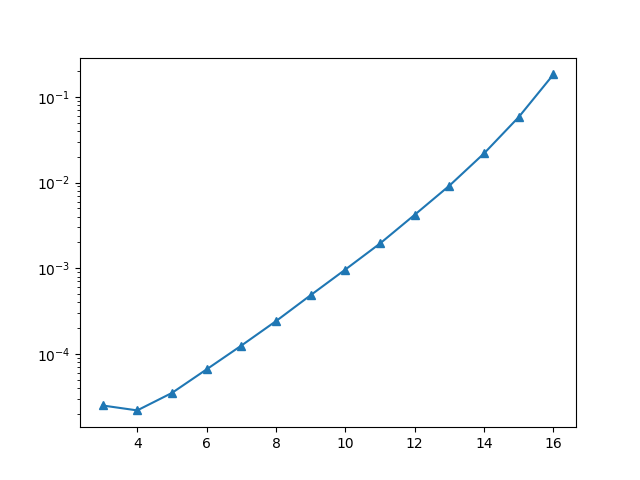
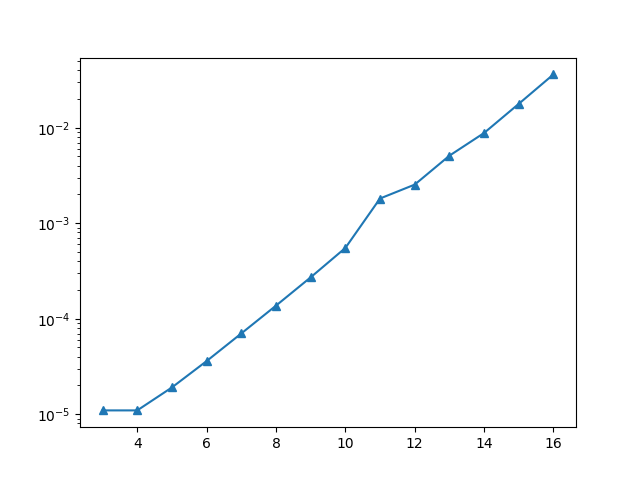
update : change io data structure

diff --git a/multiply_py/karatsuba.py b/multiply_py/karatsuba.py
@@ -1,46 +1,27 @@
 import random
-from utils import int_ls, to_ls
+from mul1 import add, add_3, mul_2, mul1, mul_nn
+from add import add_nn
 
 
-def mul_2(l, m):
-    ans = (l * m)
-    return ans // 10, ans % 10
-
-
-def add(l, m):
-    ans = (l + m)
-    return ans // 10, ans % 10
-
-
-def add_3(l, m, n):
-    ans = (l + m + n)
-    return ans // 10, ans % 10
-
-
-def mul1(a_ls, b):
-    # print(a * b)
-    ans = [0] * (len(a_ls) + 1)
-    carry = 0
-    prev_c = 0
-    for i in range(len(a_ls)):
-        c, d = mul_2(a_ls[i], b)
-        carry, tmp = add_3(d, prev_c, carry)
-        ans[i] = tmp
-        prev_c = c
-    ans[-1] = prev_c + carry
-    ans = ans[::-1]
-    # print(ans)
-    # print(int("".join(list(map(str, ans)))))
-    return ans
-
-
-def mul_nn(a, b):
+def karatsuba_nn(a, b, n0):
+    inta = a
+    a = list(map(int, list(str(a))))[::-1]
+    b = list(map(int, list(str(b))))[::-1]
     if len(b) > len(a):
         a, b = b, a
+    if len(b) <= n0:
+        return int_ls(mul_nn(a, b))
+    k = len(a) // 2
     ans = [0] * (len(a) + len(b) + 1)
+    a0 = a[:k]
+    a1 = a[k:]
+    b0 = b[:k]
+    b1 = b[k:]
+
+
 
     for i in range(len(b)):
-        p = mul1(a, b[i])
+        p = mul1(inta, b[i])
         p = p[::-1]  # p : len(a) + 1
         carry = 0
         for j in range(i, i + len(a) + 1):
@@ -63,9 +44,6 @@ if __name__ == '__main__':
         keta = 8 * (2**i)
         a = random.randrange(10 ** keta, 10 ** (keta + 1))
         b = random.randrange(10 ** keta, 10 ** (keta + 1))
-        a = to_ls(a)
-        b = to_ls(b)
         # print(a * b)
         # print(mul_nn(a, b))
-        print((int_ls(a) * int_ls(b)) == mul_nn(a, b))
-
+        print((a * b) == mul_nn(a, b))

diff --git a/multiply_py/checksum.py b/multiply_py/checksum.py
@@ -1,6 +1,7 @@
 from mul1 import mul_nn
 import random
 from tqdm import tqdm
+from utils import to_ls, int_ls
 
 
 def main():
@@ -8,9 +9,11 @@ def main():
         keta = 8 * (2**i)
         a = random.randrange(10 ** keta, 10 ** (keta + 1))
         b = random.randrange(10 ** keta, 10 ** (keta + 1))
+        a = to_ls(a)
+        b = to_ls(b)
         ans = mul_nn(a, b)
-        true_checksum = ((a % 9) * (b % 9)) % 9
-        calc_checksum = int("".join(list(map(str, ans)))) % 9
+        true_checksum = ((int_ls(a) % 9) * (int_ls(b) % 9)) % 9
+        calc_checksum = int_ls(ans) % 9
         print(true_checksum == calc_checksum)
 
 

diff --git a/multiply_py/add.py b/multiply_py/add.py
@@ -1,3 +1,6 @@
+from utils import int_ls, to_ls
+
+
 def add(l, m):
     ans = (l + m)
     return ans // 10, ans % 10
@@ -10,8 +13,6 @@ def add_3(l, m, n):
 
 def add_nn(a, b):
     # print(a + b)
-    a = list(map(int, list(str(a))))[::-1]
-    b = list(map(int, list(str(b))))[::-1]
     if len(b) > len(a):
         a, b = b, a
     ans = [0] * (len(a) + 1)
@@ -31,10 +32,12 @@ def add_nn(a, b):
     ans = ans[::-1]
     # print(int("".join(list(map(str, ans)))))
 
-    return
+    return ans
 
 
 if __name__ == '__main__':
     a = 123850
     b = 123856
+    a = to_ls(a)
+    b = to_ls(b)
     add_nn(a, b)

diff --git a/multiply_py/plot_mul.py b/multiply_py/plot_mul.py
@@ -5,6 +5,7 @@ import math
 import random
 from tqdm import tqdm
 import pandas as pd
+from utils import to_ls
 
 
 def main():
@@ -14,7 +15,8 @@ def main():
         keta = 8 * (2**i)
         a = random.randrange(10 ** keta, 10 ** (keta + 1))
         b = random.randrange(10 ** keta, 10 ** (keta + 1))
-
+        a = to_ls(a)
+        b = to_ls(b)
         # 計測部
         t1 = time.time()
         mul_nn(a, b)

diff --git a/multiply_py/plot_mul1.py b/multiply_py/plot_mul1.py
@@ -3,6 +3,7 @@ from mul1 import mul1
 import matplotlib.pyplot as plt
 import math
 import random
+from utils import to_ls
 
 
 def main():
@@ -12,7 +13,8 @@ def main():
         keta = 8 * (2**i)
         a = random.randrange(10 ** keta, 10 ** (keta + 1))
         b = random.randint(1, 10)
-
+        a = to_ls(a)
+        b = b
         # 計測部
         t1 = time.time()
         mul1(a, b)

diff --git a/multiply_py/plot_add.py b/multiply_py/plot_add.py
@@ -12,7 +12,8 @@ def main():
         keta = 8 * (2**i)
         a = random.randrange(10 ** keta, 10 ** (keta + 1))
         b = random.randrange(10 ** keta, 10 ** (keta + 1))
-
+        a = list(map(int, list(str(a))))[::-1]
+        b = list(map(int, list(str(b))))[::-1]
         # 計測部
         t1 = time.time()
         add_nn(a, b)

diff --git a/multiply_py/utils.py b/multiply_py/utils.py
@@ -1,0 +1,6 @@
+def int_ls(a):
+    return int("".join(list(map(str, a))))
+
+
+def to_ls(a):
+    return list(map(int, list(str(a))))[::-1]
